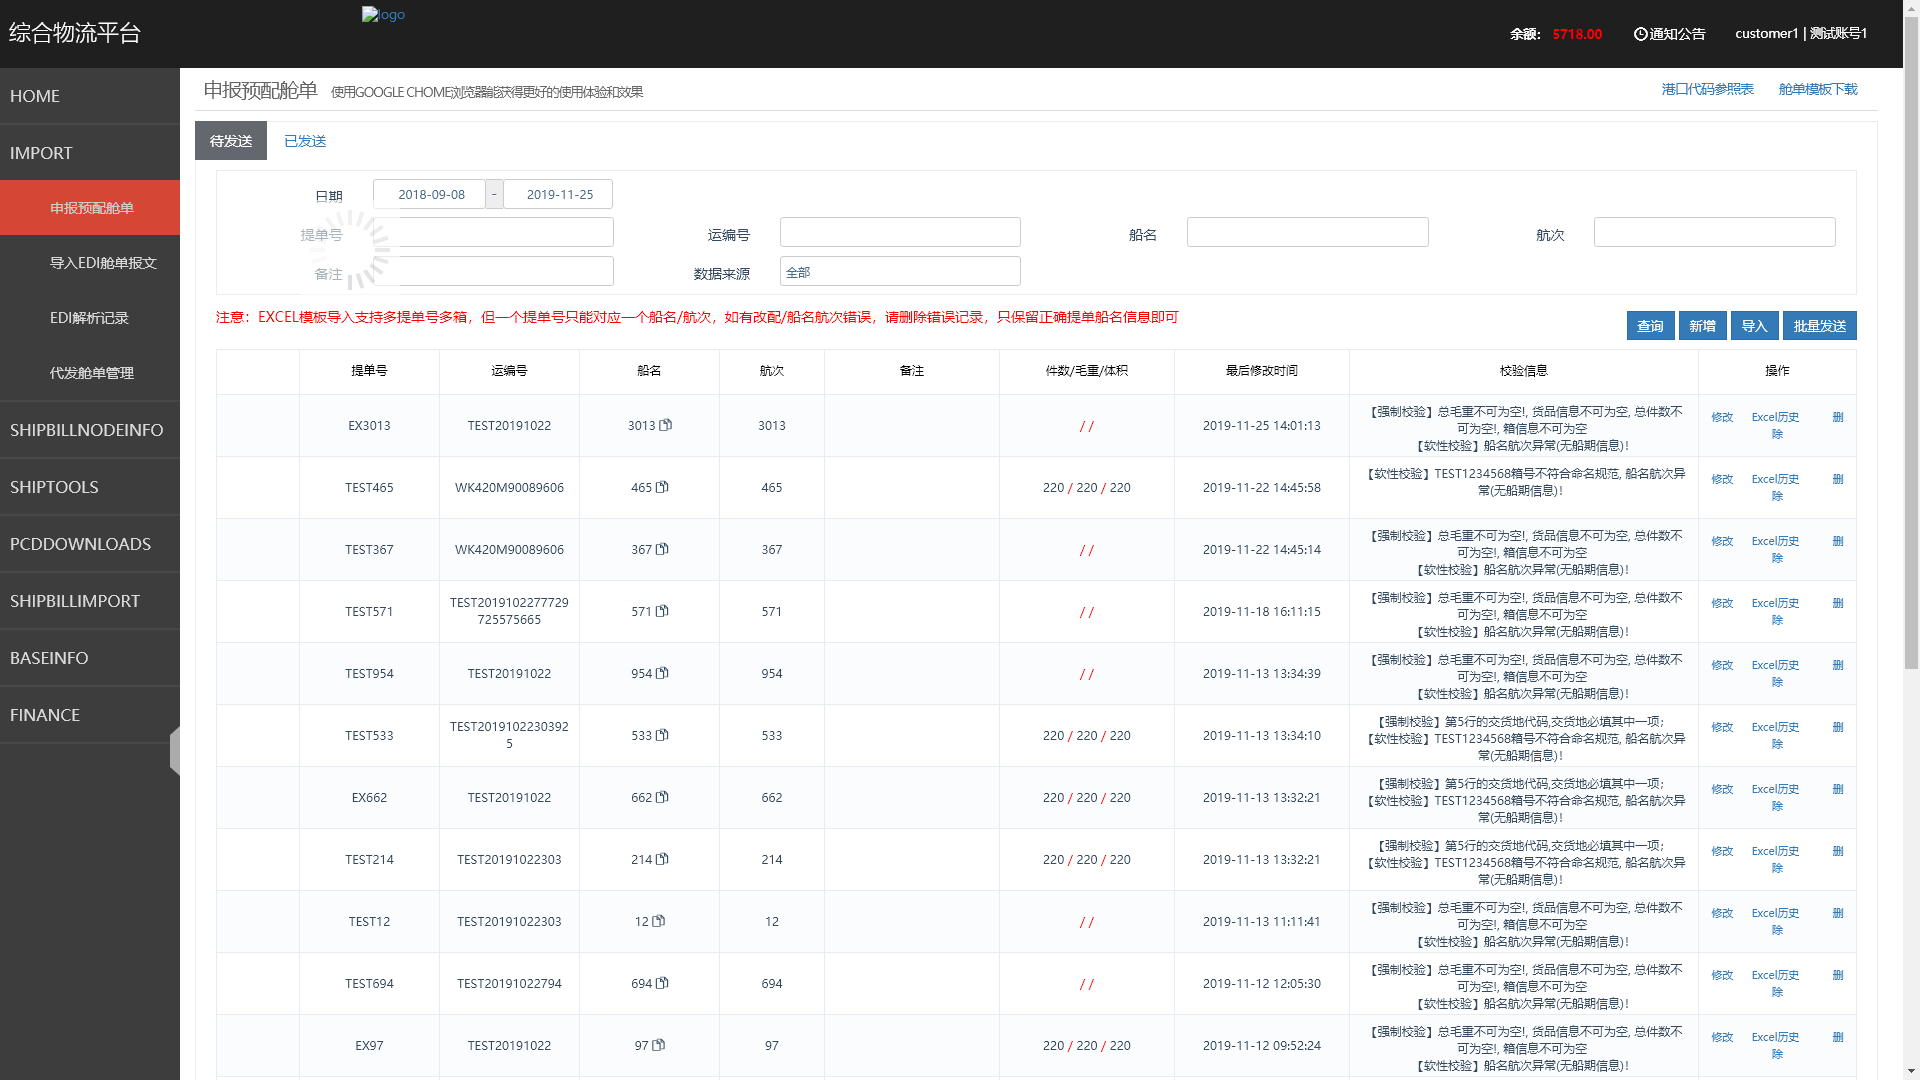
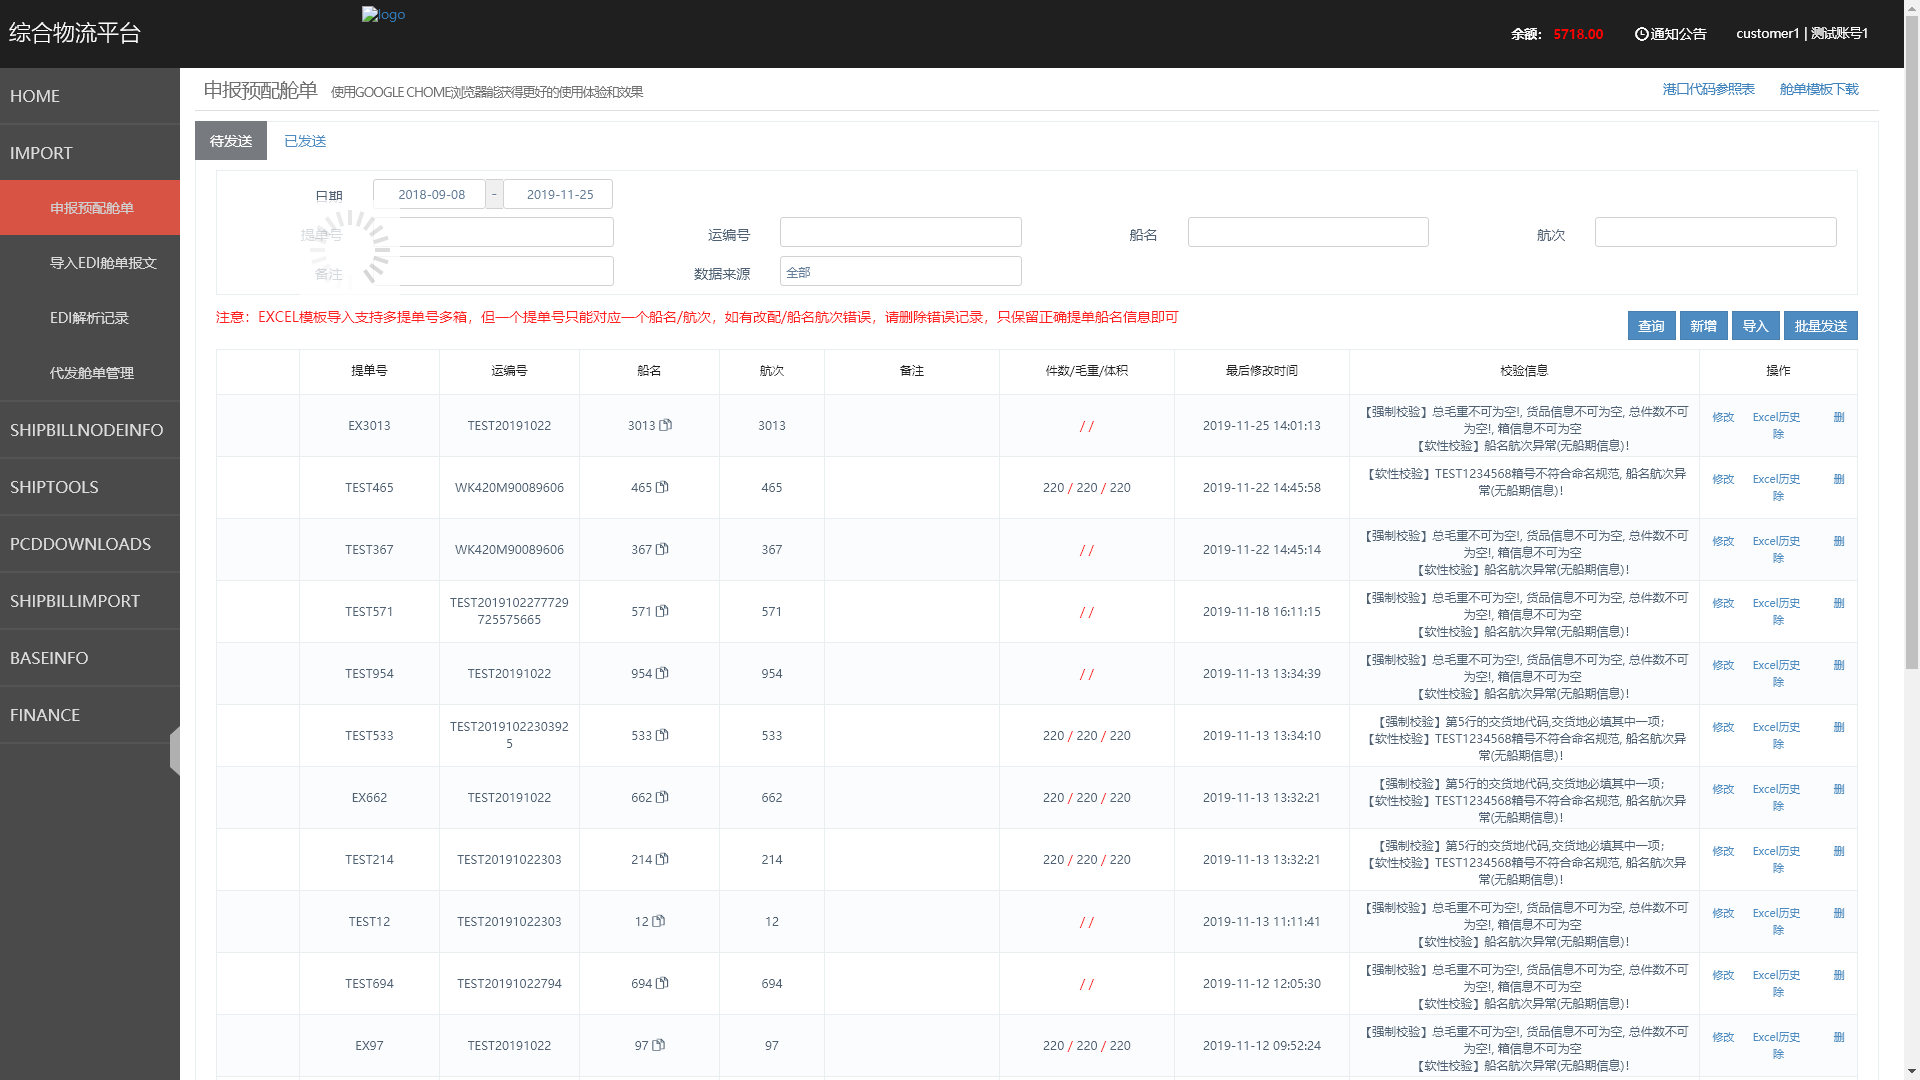
解决jenkins中运行 页面无法全屏 jenkins 部署在Tocat01

diff --git a/user_case/testcase_1report.py b/user_case/testcase_1report.py
@@ -17,7 +17,7 @@ class TestcaseReport(unittest.TestCase):
 
     def setUp(self) -> None:
         opt = webdriver.ChromeOptions()
-        opt.headless = True
+        # opt.headless = True
         opt.add_argument('--disable-gpu')  # 谷歌文档提到需要加上这个属性来规避bug
         opt.add_argument('blink-settings=imagesEnabled=false')  # 不加载图片, 提升速度
         self.driver = webdriver.Chrome(options=opt)
